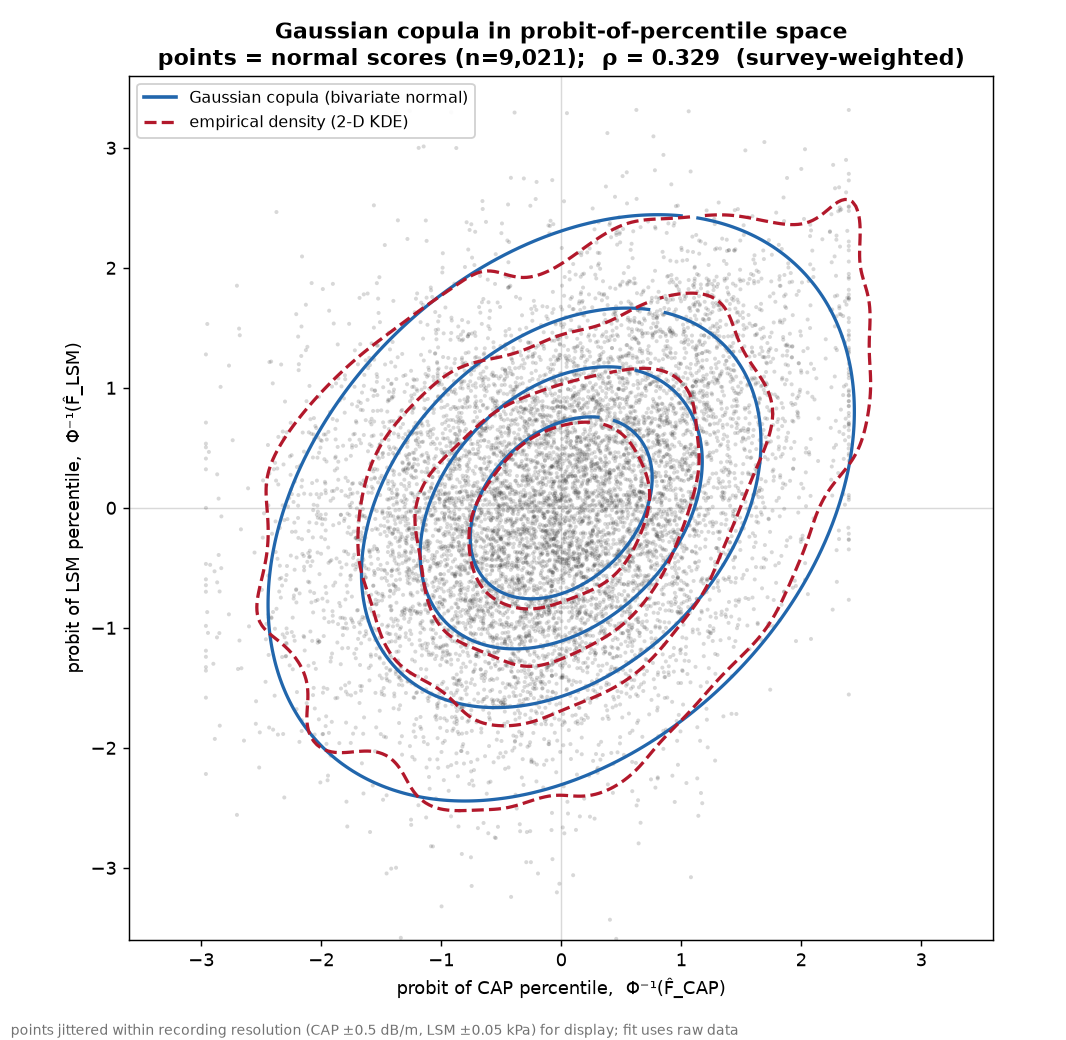
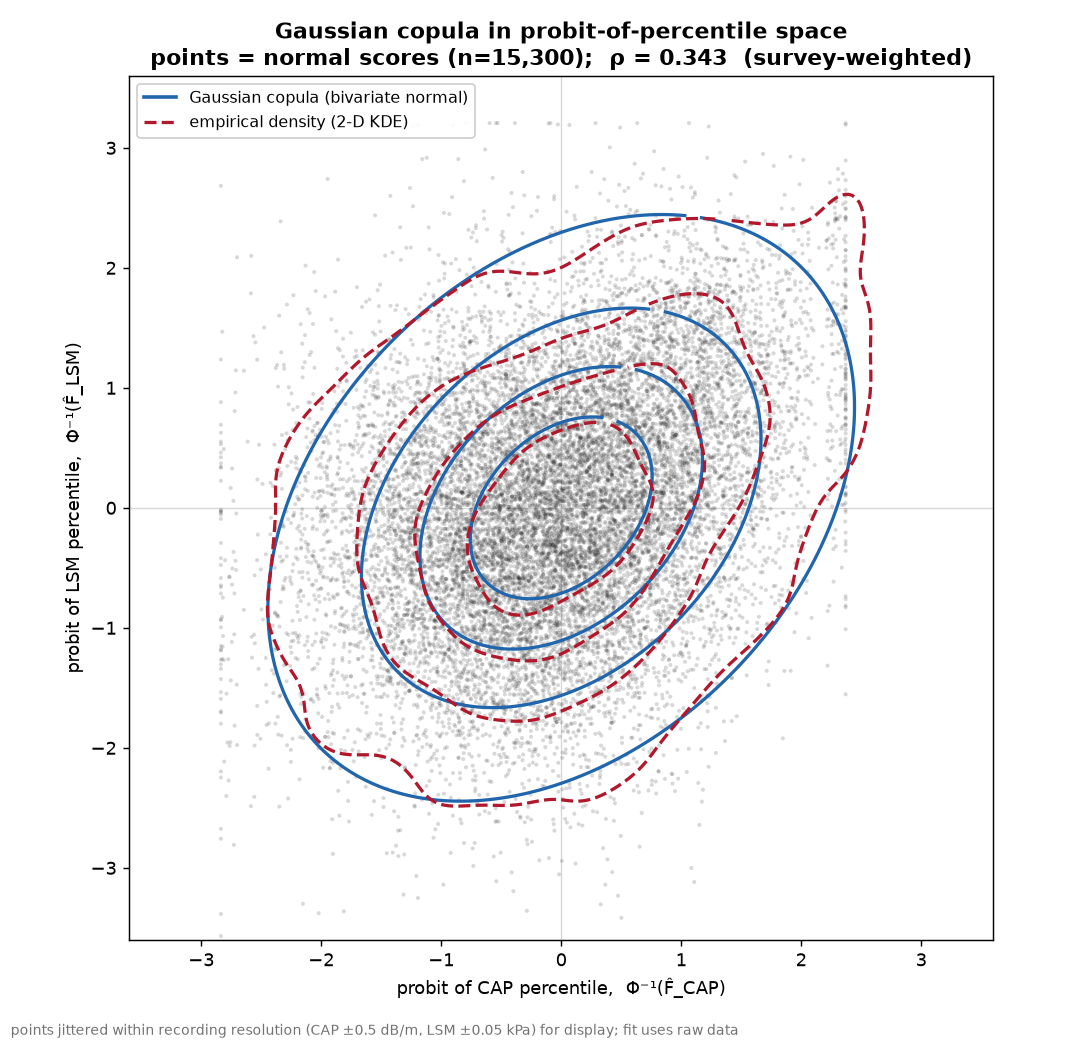
Pool NHANES 2021-2023 into copula analysis; slide tweaks
Add the August 2021-August 2023 (_L) cycle to the CAP/LSM copula analysis,
pooled with 2017-2020 pre-pandemic (n=9,021 + 6,279 = 15,300). Combined survey
weights per NHANES guidance for unequal-length cycles: WTMECPRP*3.2/5.2 and
WTMEC2YR*2/5.2 (pooled weights sum to one population). rho 0.33->0.34; tail
asymmetry persists.

Slide (fig12): raise LSM ymax to 15 (full F3 visible); move CAP>=288 label to
the bottom (was overlapping top); add survey-weighted share of participants in
each CAP-side x fibrosis-band region as boxed %; horizontal legend; fix clipped
subtitle/footnote. Read _L files with latin1 fallback. README updated.

Claude-Session: https://claude.ai/code/session_01LwCnedbogfCfgas9av6aUf

Changed region(s): [[0.1857, 0.1538, 0.8358, 0.8], [0.1548, 0.0308, 0.9287, 0.0615], [0.1857, 0.4308, 0.2167, 0.4615]]

diff --git a/nhanes_cap_lsm/cap_lsm_copula.py b/nhanes_cap_lsm/cap_lsm_copula.py
@@ -30,30 +30,59 @@ from matplotlib.lines import Line2D
 from matplotlib.ticker import ScalarFormatter, FixedLocator, NullLocator
 from scipy.stats import norm, gaussian_kde, multivariate_normal
 
-CDC = "https://wwwn.cdc.gov/Nchs/Data/Nhanes/Public/2017/DataFiles"
+# Pooled cycles: 2017-March 2020 pre-pandemic (P_, weight WTMECPRP, 3.2 yr) and
+# August 2021-August 2023 (_L, weight WTMEC2YR, 2.0 yr). Per NHANES guidance for
+# combining cycles of unequal length, the pooled weight is the cycle MEC weight
+# times (cycle years / total years); total = 3.2 + 2.0 = 5.2.
 os.makedirs("data", exist_ok=True)
-for fname in ("P_LUX.xpt", "P_DEMO.xpt"):
-    dest = os.path.join("data", fname)
-    if not os.path.exists(dest):
-        import requests
-        r = requests.get(f"{CDC}/{fname}", timeout=180); r.raise_for_status()
-        open(dest, "wb").write(r.content)
+SOURCES = {
+    "https://wwwn.cdc.gov/Nchs/Data/Nhanes/Public/2017/DataFiles":
+        ["P_LUX.xpt", "P_DEMO.xpt"],
+    "https://wwwn.cdc.gov/Nchs/Data/Nhanes/Public/2021/DataFiles":
+        ["LUX_L.xpt", "DEMO_L.xpt"],
+}
+for base, files in SOURCES.items():
+    for fname in files:
+        dest = os.path.join("data", fname)
+        if not os.path.exists(dest):
+            import requests
+            r = requests.get(f"{base}/{fname}", timeout=180); r.raise_for_status()
+            open(dest, "wb").write(r.content)
+
+TOTAL_YEARS = 5.2
 
 
 def rx(fname, cols):
-    df, _ = pyreadstat.read_xport(os.path.join("data", fname))
+    try:
+        df, _ = pyreadstat.read_xport(os.path.join("data", fname))
+    except UnicodeDecodeError:                      # some _L labels are latin1
+        df, _ = pyreadstat.read_xport(os.path.join("data", fname),
+                                      encoding="latin1")
     return df[cols]
 
 
-df = rx("P_LUX.xpt", ["SEQN", "LUAXSTAT", "LUXSMED", "LUXCAPM"]).merge(
-    rx("P_DEMO.xpt", ["SEQN", "WTMECPRP"]), on="SEQN")
-df = df[(df.LUAXSTAT == 1) & df.LUXSMED.notna() & df.LUXCAPM.notna()
-        & (df.WTMECPRP > 0)].copy()
+def build_cycle(lux_f, demo_f, wcol, years, label):
+    d = rx(lux_f, ["SEQN", "LUAXSTAT", "LUXSMED", "LUXCAPM"]).merge(
+        rx(demo_f, ["SEQN", wcol]), on="SEQN")
+    d = d[(d.LUAXSTAT == 1) & d.LUXSMED.notna() & d.LUXCAPM.notna()
+          & (d[wcol] > 0)].copy()
+    d["w"] = d[wcol] * years / TOTAL_YEARS          # pooled weight
+    d["cycle"] = label
+    return d[["LUXSMED", "LUXCAPM", "w", "cycle"]]
+
+
+df = pd.concat([
+    build_cycle("P_LUX.xpt", "P_DEMO.xpt", "WTMECPRP", 3.2, "2017-2020"),
+    build_cycle("LUX_L.xpt", "DEMO_L.xpt", "WTMEC2YR", 2.0, "2021-2023"),
+], ignore_index=True)
 cap = df.LUXCAPM.values.astype(float)
 lsm = df.LUXSMED.values.astype(float)
-w = df.WTMECPRP.values.astype(float)
+w = df.w.values.astype(float)
 W = w.sum()
-print(f"n = {len(df):,}   sum weights = {W:,.0f}")
+print(f"pooled n = {len(df):,}  ("
+      + ", ".join(f"{c}: {int((df.cycle == c).sum()):,}"
+                  for c in ("2017-2020", "2021-2023")) + ")")
+print(f"sum pooled weights = {W:,.0f}")
 
 
 # --------------------------------------------------------------------------
@@ -277,15 +306,29 @@ plt.close(fig)
 print("wrote fig11_copula_capunits.png")
 
 # ==========================================================================
-# FIGURE 12: presentation slide version (16:9, big text, LSM capped at 12.5,
-#            bold fibrosis-stage bands). Reuses the fig-11 model grids.
+# FIGURE 12: presentation slide version (16:9, big text, LSM capped at 15 to
+#            show all of F3, bold fibrosis-stage bands, and the survey-weighted
+#            share of participants in each CAP-side x fibrosis-band region).
 # ==========================================================================
-Y_MAX = 12.5
-# fibrosis-stage bands on LSM (severity ramp), with darker label colors
+Y_MAX = 15.0
+# fibrosis-stage bands on LSM (severity ramp): name, range label, lo, hi, fill, ink
 BANDS = [("F0", "< 6 kPa", 2.0, 6.0, "#dcedc8", "#33691e"),
          ("F1", "6–8 kPa", 6.0, 8.0, "#fff3c4", "#8d6e00"),
          ("F2", "8–10 kPa", 8.0, 10.0, "#ffe0b2", "#bf560a"),
          ("F3", "10–15 kPa", 10.0, Y_MAX, "#ffcdd2", "#b71c1c")]
+
+# survey-weighted share of participants in each region (CAP side x fibrosis band)
+edges = [0, 6, 8, 10, 15, np.inf]
+names5 = ["F0", "F1", "F2", "F3", "F4"]
+band_of = np.array(names5)[np.searchsorted(edges, lsm, side="right") - 1]
+cap_hi = cap >= 288
+region_pct = {(side, b): w[(msk) & (band_of == b)].sum() / W * 100
+              for side, msk in (("lo", ~cap_hi), ("hi", cap_hi))
+              for b in names5}
+print("\nWeighted % of participants by region (CAP side x fibrosis band):")
+for b in names5:
+    print(f"  {b}: CAP<288 {region_pct[('lo', b)]:4.1f}%   "
+          f"CAP≥288 {region_pct[('hi', b)]:4.1f}%")
 
 
 def draw_slide_contours(ax, X, Y, dens, color, ls, lw):
@@ -300,26 +343,35 @@ def draw_slide_contours(ax, X, Y, dens, color, ls, lw):
 
 
 fig, ax = plt.subplots(figsize=(13.33, 7.5))
-# fibrosis bands + bold right-margin labels
+# fibrosis bands + bold LEFT-edge labels + region-share numbers
 for name, rng, lo, hi, fill, txt in BANDS:
+    yc = np.sqrt(lo * hi)                            # band center on log axis
     ax.axhspan(lo, hi, color=fill, alpha=0.7, zorder=0)
-    ax.text(398, np.sqrt(lo * hi), f"{name}\n{rng}", ha="right", va="center",
-            fontsize=15, fontweight="bold", color=txt, zorder=6,
+    ax.text(103, yc, f"{name}\n{rng}", ha="left", va="center",
+            fontsize=14, fontweight="bold", color=txt, zorder=6,
             bbox=dict(boxstyle="round,pad=0.25", facecolor="white",
                       edgecolor=txt, alpha=0.9))
+    for side, xpos in (("lo", 212), ("hi", 344)):    # CAP<288 vs CAP>=288
+        ax.text(xpos, yc, f"{region_pct[(side, name)]:.0f}%", ha="center",
+                va="center", fontsize=13, fontweight="bold", color="#1a1a1a",
+                zorder=6, bbox=dict(boxstyle="round,pad=0.2", facecolor="white",
+                                    edgecolor=txt, alpha=0.85))
 for t in (6, 8, 10):
     ax.axhline(t, color="0.35", lw=1.2, zorder=1)
 
 ax.scatter(cap_j, lsm_j, s=5, c=C_PTS, alpha=0.13, edgecolors="none", zorder=2)
 ax.axvline(288, color="0.35", lw=1.4, ls=":", zorder=3)
-ax.text(291, 11.6, "CAP ≥ 288\n(steatosis)", fontsize=12, color="0.3",
-        style="italic", zorder=6)
+# CAP>=288 label moved to the BOTTOM (was overlapping the top boundary/text)
+ax.text(293, 2.15, "CAP ≥ 288 (steatosis) →", fontsize=12.5, color="0.25",
+        style="italic", ha="left", va="bottom", zorder=6)
+ax.text(283, 2.15, "← below 288", fontsize=12.5, color="0.25",
+        style="italic", ha="right", va="bottom", zorder=6)
 draw_slide_contours(ax, Xd, Yd, gauss_data, C_GAUSS, "solid", 3.0)
 draw_slide_contours(ax, Xd, Yd, emp_data, C_EMP, "dashed", 2.8)
 
 ax.set_yscale("log")
 ax.set_xlim(CAP_LO, CAP_HI); ax.set_ylim(LSM_LO, Y_MAX)
-ax.yaxis.set_major_locator(FixedLocator([2, 3, 4, 5, 6, 8, 10, 12.5]))
+ax.yaxis.set_major_locator(FixedLocator([2, 3, 4, 5, 6, 8, 10, 15]))
 ax.yaxis.set_major_formatter(ScalarFormatter())
 ax.yaxis.set_minor_locator(NullLocator())
 ax.tick_params(axis="both", labelsize=15)
@@ -330,17 +382,20 @@ ax.legend(handles=[
     Line2D([], [], color=C_EMP, lw=2.8, ls="--", label="Empirical density"),
     Line2D([], [], marker="o", color="none", markerfacecolor=C_PTS,
            markersize=8, alpha=0.5, label=f"Participants (n={len(df):,})")],
-    loc="upper left", fontsize=14, framealpha=0.95)
+    loc="upper center", ncol=3, fontsize=13, framealpha=0.95)
 fig.suptitle("Joint distribution of CAP and liver stiffness: "
              "Gaussian copula vs. empirical", fontsize=21, fontweight="bold")
-ax.set_title(f"NHANES 2017–2020, survey-weighted    ·    Gaussian ρ = {rho:.2f}"
-             "    ·    empirical adds the upper-tail dependence Gaussian misses",
-             fontsize=13, color="0.3")
-fig.text(0.5, 0.006, "Contours enclose 25/50/75/95% of probability. Points "
-         "jittered within recording resolution (display only). LSM axis capped "
-         "at 12.5 kPa — F4 (≥15) not shown.", fontsize=10, color="0.45",
+ax.set_title(f"NHANES 2017–2020 + 2021–2023, survey-weighted    ·    "
+             f"Gaussian ρ = {rho:.2f}, but empirical adds upper-tail dependence",
+             fontsize=13.5, color="0.3")
+fig.text(0.5, 0.032, "Boxed % = survey-weighted share of participants in each "
+         "region (CAP side × fibrosis band).", fontsize=10, color="0.45",
          ha="center")
-fig.tight_layout(rect=[0, 0.03, 1, 0.955])
+fig.text(0.5, 0.008, f"F4 (≥15 kPa) is above the axis: "
+         f"{region_pct[('lo','F4')]:.1f}% below / {region_pct[('hi','F4')]:.1f}% "
+         "above CAP 288.    Curve labels 25/50/75/95% = probability contours.",
+         fontsize=10, color="0.45", ha="center")
+fig.tight_layout(rect=[0, 0.06, 1, 0.955])
 fig.savefig("fig12_copula_slide.png", dpi=150)
 plt.close(fig)
 print("wrote fig12_copula_slide.png")

diff --git a/nhanes_cap_lsm/README.md b/nhanes_cap_lsm/README.md
@@ -208,9 +208,11 @@ moves the distribution far more than alcohol category does.
 # Gaussian vs. empirical copula for (CAP, LSM)
 
 `cap_lsm_copula.py` is a diagnostic to help choose between a **Gaussian copula**
-and an **empirical copula** for the joint distribution of median CAP and LSM
-(full elastography sample, n=9,021, survey-weighted). It scatters the data and
-overlays the density a Gaussian copula would give, in two coordinate systems:
+and an **empirical copula** for the joint distribution of median CAP and LSM.
+It **pools two cycles** — NHANES 2017–2020 pre-pandemic + August 2021–August
+2023 (`_L`) — for **n = 15,300** valid elastography exams, survey-weighted. It
+scatters the data and overlays the density a Gaussian copula would give, in two
+coordinate systems:
 
 - `fig10_copula_probit.png` — **probit-of-percentile space**: each variable
   mapped to `Φ⁻¹(weighted percentile)`. A Gaussian copula is then bivariate
@@ -219,28 +221,39 @@ overlays the density a Gaussian copula would give, in two coordinate systems:
   spread the crowded low-LSM mode): the same model mapped back,
   `f(x,y) = c_ρ(F_X(x),F_Y(y))·f_X(x)·f_Y(y)` with empirical (KDE) margins.
 - `fig12_copula_slide.png` — **presentation version** of fig11: 16:9, large
-  fonts, LSM capped at 12.5 kPa, with shaded/labeled fibrosis-stage bands
-  (F0–F3). Same weighted fit and contours.
+  fonts, LSM capped at **15 kPa** (all of F3 visible), shaded/labeled
+  fibrosis-stage bands (F0–F3), and the **survey-weighted share of participants
+  in each CAP-side × fibrosis-band region** shown as boxed %.
 
 Both overlay the empirical joint density (2-D weighted KDE — what an empirical
 copula reproduces) as dashed contours at matching probability-mass levels.
 
-## What the diagnostic says
+**Pooling & weights.** The two cycles have different weight bases (`WTMECPRP`,
+3.2 yr; `WTMEC2YR`, 2.0 yr). Per NHANES guidance for combining unequal-length
+cycles, the pooled weight is `cycle MEC weight × (cycle years / 5.2)`
+(`WTMECPRP×3.2/5.2` and `WTMEC2YR×2/5.2`); the pooled weights sum to ~243 M (one
+population, not double-counted). (The other analyses in this project still use
+2017–2020 only — this pooling is applied to the copula analysis.)
+
+Weighted region shares (fig12): F0 55.9 / 17.0, F1 9.6 / 8.0, F2 1.7 / 2.5,
+F3 1.0 / 2.3, F4 0.5 / 1.6 (% CAP<288 / CAP≥288). CAP≥288 (steatosis) ≈ 31%.
+
+## What the diagnostic says (pooled)
 
 | Quantity | Value |
 |---|---|
-| Gaussian-copula ρ (normal scores) | 0.329 |
-| Weighted Spearman (empirical) | 0.310 |
-| Gaussian-copula-implied Spearman | 0.315 |
+| Gaussian-copula ρ (normal scores) | 0.343 |
+| Weighted Spearman (empirical) | 0.331 |
+| Gaussian-copula-implied Spearman | 0.330 |
 
-Overall association is captured well (implied vs. empirical Spearman 0.315 vs.
-0.310). But the **tails are asymmetric**, which a Gaussian copula (radially
+Overall association is captured well (implied vs. empirical Spearman 0.330 vs.
+0.331). But the **tails are asymmetric**, which a Gaussian copula (radially
 symmetric, asymptotically tail-independent) cannot represent:
 
 | P(both extreme \| one extreme) | Empirical | Gaussian |
 |---|---|---|
 | Upper, q=0.95 (both high) | **0.28** | 0.16 |
-| Lower, q=0.95 (both low) | **0.10** | 0.16 |
+| Lower, q=0.95 (both low) | **0.11** | 0.16 |
 
 High CAP and high LSM co-occur **more** than Gaussian predicts (advanced MASLD
 clusters in the upper-right corner), while the lower tail co-occurs **less**.